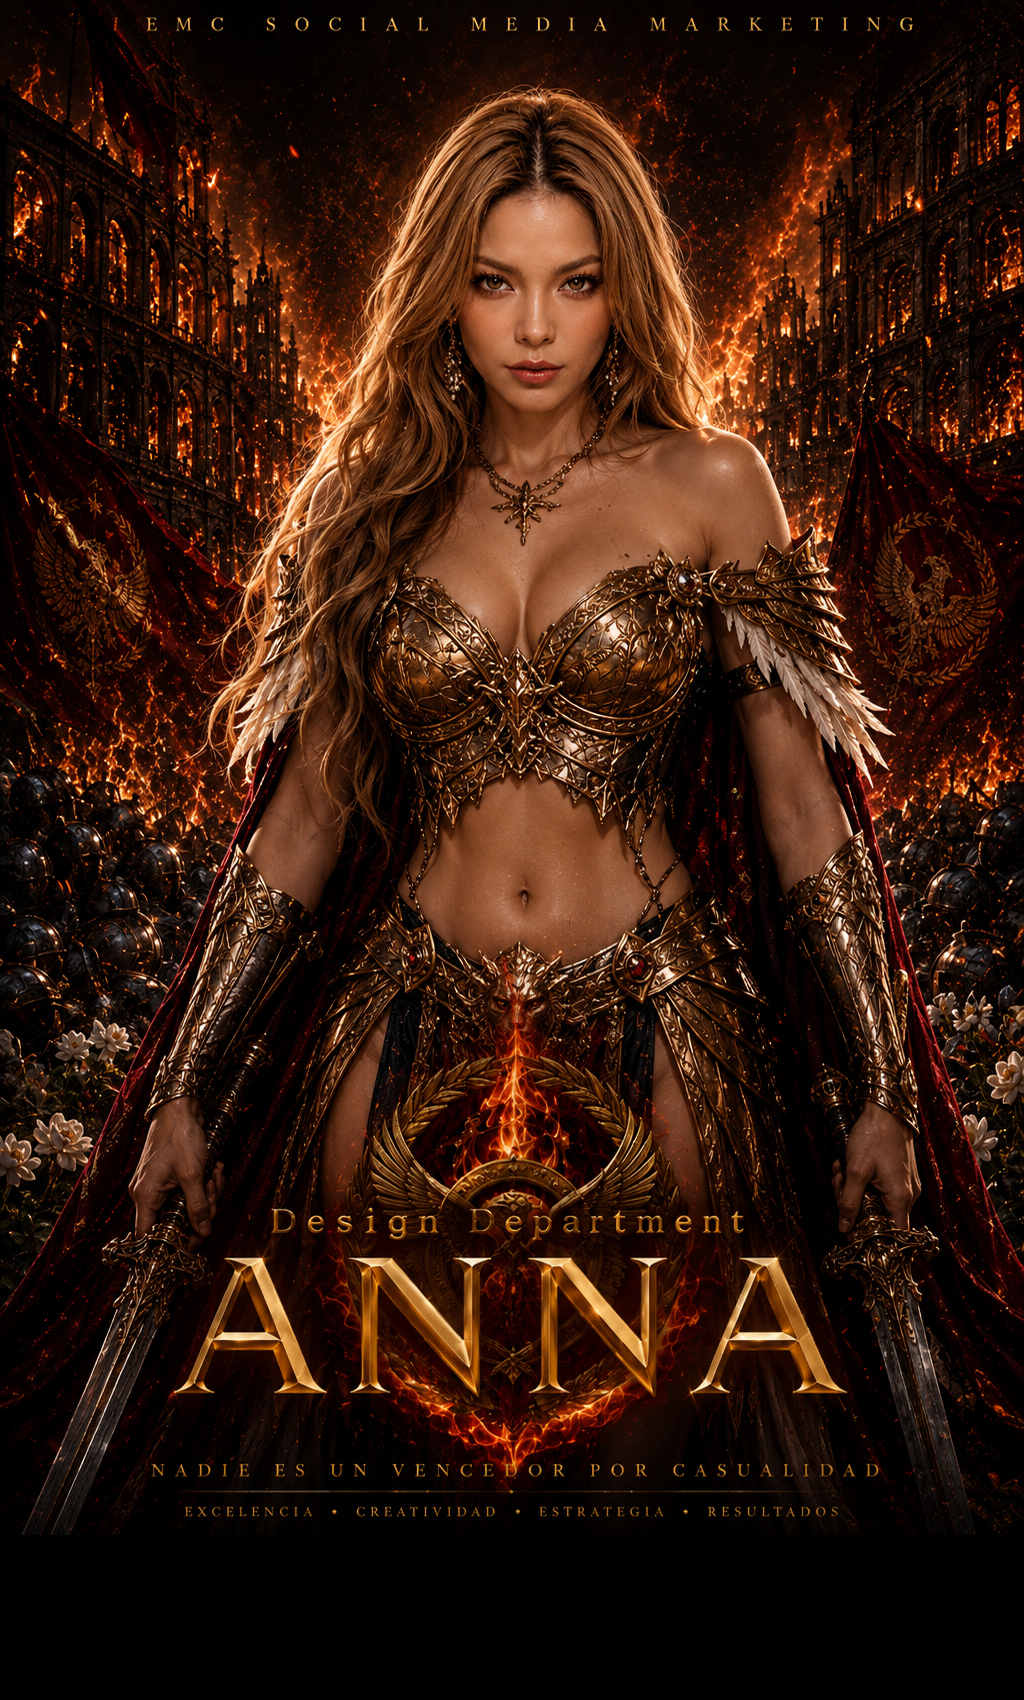
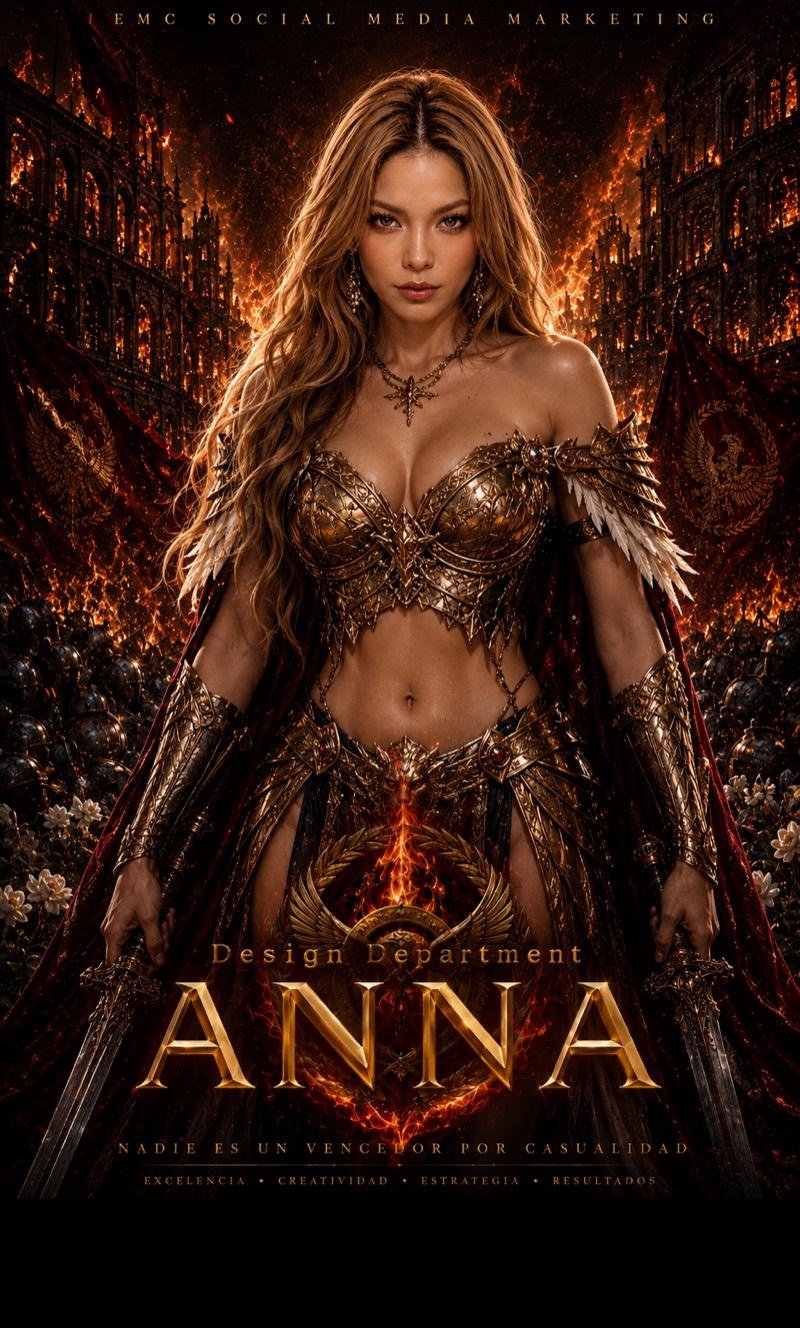
perf: 開頁只下載一次資料庫、壓縮設計師照片、減少不必要的資料庫提交
- fetchGithubJsonDatabase 共用進行中的下載，開頁三次請求合併為一次
- 六張設計師照片縮為寬 800、品質 72（每張約 1.7MB → 0.3MB）
- 畫面偏好停止操作 15 秒才同步，內容沒變不送，頁面隱藏時補送
- Worker saveUserSettings 設定沒變時不提交 GitHub
- 歷史資料庫與短網址索引只在內容真的變動時才重寫，不再每次寫入都多一次 align 提交

diff --git a/index.html b/index.html
@@ -7455,9 +7455,19 @@ const supplementLinkFields = Object.freeze({briefUrl:{slot:'a',column:'A'},asset
 const githubJsonDatabaseUrl = 'backend/data/db.json';
 let githubJsonDatabaseCache = null;
 let githubJsonDatabaseLoadedAt = 0;
+let githubJsonDatabaseInflight=null;
+/** 開頁時選單資料、設計師設定、案件列表幾乎同時要資料庫，以前各自下載，同一份檔案一次抓三遍。
+ * 現在同一時間只下載一次：正在下載中的那一次直接共用。反正都要重新下載，這次下載一律跳過快取抓最新版，
+ * 所以共用它的呼叫端不論有沒有要求強制更新，拿到的都是最新資料。 */
 async function fetchGithubJsonDatabase({fresh=false}={}){
   if(!fresh&&githubJsonDatabaseCache&&Date.now()-githubJsonDatabaseLoadedAt<10000)return githubJsonDatabaseCache;
-  const response=await fetch(`${githubJsonDatabaseUrl}?v=${fresh?Date.now():appBuildVersion}`,{cache:fresh?'no-store':'default'});
+  if(githubJsonDatabaseInflight)return githubJsonDatabaseInflight;
+  const download=downloadGithubJsonDatabase();
+  githubJsonDatabaseInflight=download;
+  try{return await download}finally{if(githubJsonDatabaseInflight===download)githubJsonDatabaseInflight=null}
+}
+async function downloadGithubJsonDatabase(){
+  const response=await fetch(`${githubJsonDatabaseUrl}?v=${Date.now()}`,{cache:'no-store'});
   if(!response.ok)throw new Error(`GitHub JSON 讀取失敗：HTTP ${response.status}`);
   const database=await response.json();
   if(!database?.tables?.database?.rows)throw new Error('GitHub JSON 資料庫格式錯誤');
@@ -7982,6 +7992,12 @@ let lastReturnRefreshAt = 0;
 let remoteSettingsSaveTimer = null;
 let remoteSettingsSaveSequence = 0;
 let remoteSettingsSaveQueue = Promise.resolve();
+// 畫面偏好（篩選條件、深淺色、欄位顯示、收合狀態）每改一次就寫回資料庫，會變成一次 GitHub 提交＋網站重新
+// 部署——例如連點四位設計師卡片就是四次提交。改成停止操作一段時間才合併送出一次，內容跟上次成功送出的
+// 一樣就不送；切走或關閉頁面時立刻補送，不會漏存。這些設定本機本來就有即時快取，畫面不受延遲影響。
+const REMOTE_SETTINGS_IDLE_MS = 15000;
+const remoteSettingsLastSynced = new Map();
+let remoteSettingsPendingRun = null;
 let lastEditorSessionKeepAliveAt = 0;
 let lastBackgroundRefreshInputAt = 0;
 const recentLocalWritesKey = 'designRequestRecentJsonWritesV1';
@@ -8074,19 +8090,28 @@ function remoteSettingsPayload(){const theme=currentTheme(); return {visibleColu
 function saveRemoteSettingsForAccount(message='個人設定已儲存'){
   if(!isLoggedIn()||!currentEditorToken||!apiUrl||isLocalPreviewToken())return;
   const account=currentEditorAccount, editor=currentEditor, token=currentEditorToken, settings=remoteSettingsPayload(), sequence=++remoteSettingsSaveSequence;
-  clearTimeout(remoteSettingsSaveTimer);
-  remoteSettingsSaveTimer=setTimeout(()=>{
+  const run=()=>{
+    if(remoteSettingsPendingRun===run)remoteSettingsPendingRun=null;
+    const serialized=JSON.stringify(settings);
+    if(remoteSettingsLastSynced.get(account)===serialized)return;
     remoteSettingsSaveQueue=remoteSettingsSaveQueue.catch(()=>{}).then(async()=>{
       try{
         const data=await sheetApi('saveUserSettings',{account,editorToken:token,settings});
         if(data.action!=='saveUserSettings')throw new Error('Cloudflare Worker 尚未回傳個人設定寫入結果');
+        remoteSettingsLastSynced.set(account,serialized);
         if(sequence===remoteSettingsSaveSequence&&account===currentEditorAccount)setSync(`${editor} 的${message}`);
       }catch(err){
         if(sequence===remoteSettingsSaveSequence&&account===currentEditorAccount)setSync(`設定已套用，但寫回表單失敗：${err.message}`,true);
       }
     });
-  },450);
+  };
+  clearTimeout(remoteSettingsSaveTimer);
+  remoteSettingsPendingRun=run;
+  remoteSettingsSaveTimer=setTimeout(run,REMOTE_SETTINGS_IDLE_MS);
 }
+function flushRemoteSettingsSave(){const run=remoteSettingsPendingRun; if(!run)return; clearTimeout(remoteSettingsSaveTimer); run()}
+document.addEventListener('visibilitychange',()=>{if(document.visibilityState==='hidden')flushRemoteSettingsSave()});
+window.addEventListener('pagehide',flushRemoteSettingsSave);
 function saveVisibleColumnsForAccount(message='個人設定已儲存'){visibleColumns=validVisibleColumns(visibleColumns,{fallback:false}); writeCache(accountStorageKey(visibleColumnsKey),visibleColumns); saveRemoteSettingsForAccount(message)}
 function saveDisplaySettingsForAccount(){writeCache(accountStorageKey(displaySettingsKey),displaySettings); saveRemoteSettingsForAccount()}
 function saveCollapseSettingsForAccount(){writeCache(accountStorageKey('designRequestCollapseSettingsV1'),collapseSettings); saveRemoteSettingsForAccount('視窗設定已儲存')}

diff --git a/worker/test/index.test.ts b/worker/test/index.test.ts
@@ -2432,6 +2432,33 @@ describe('Machi Design API Worker', () => {
     expect(managerDelete).toMatchObject({ ok: true, id: '26080001' });
   });
 
+  it('does not commit to GitHub when saveUserSettings would leave the settings row exactly as it was', async () => {
+    const token = await login();
+    let commits = 0;
+    vi.spyOn(globalThis, 'fetch').mockImplementation(async (input, init) => {
+      if (String(input) === 'https://api.github.com/repos/EMCtaipeiART/EMCtaipeiART.github.io/contents/backend/data/db.json') {
+        expect(init?.method).toBe('PUT');
+        commits += 1;
+        return Response.json({ content: { sha: `settings-file-${crypto.randomUUID()}` }, commit: { sha: 'settings-commit-sha' } });
+      }
+      throw new Error(`unexpected fetch: ${String(input)}`);
+    });
+
+    // 第一次是真的改了深淺模式，要提交。
+    const first = await api({ action: 'saveUserSettings', settings: { theme: 'dark', '深淺模式': '深色' } }, token);
+    expect(first).toMatchObject({ ok: true, action: 'saveUserSettings' });
+    expect(commits).toBe(1);
+
+    // 第二次送出一模一樣的設定：畫面照常拿到成功結果，但不可以再提交一次（每次提交都會觸發網站重新部署）。
+    const second = await api({ action: 'saveUserSettings', settings: { theme: 'dark', '深淺模式': '深色' } }, token);
+    expect(second).toMatchObject({ ok: true, action: 'saveUserSettings', unchanged: true });
+    expect(commits).toBe(1);
+
+    // 再改回淺色又是真的變動，照常提交。
+    await api({ action: 'saveUserSettings', settings: { theme: 'light', '深淺模式': '淺色' } }, token);
+    expect(commits).toBe(2);
+  });
+
   describe('new 客戶別 defaults', () => {
     /** 在「設定」表補一位人員，讓 newCustomerDefaults() 讀得到他的部門／組別。 */
     async function seedStaff(account: string, department: string, group: string, name = account): Promise<void> {

diff --git a/worker/src/database-coordinator.ts b/worker/src/database-coordinator.ts
@@ -2572,8 +2572,13 @@ export class DatabaseCoordinator extends DurableObject<Env> {
       return this.mutate(action, current, draft => {
         const row = settingsRow(draft, account || current.user);
         if (!row) throw new Error('找不到個人設定資料');
+        const before = JSON.stringify(row);
         updateSettingsRow(row, asRow(payload.settings));
-        return { result: { ok: true, action, account, settings: settingsResponse(row) }, changedTables: ['設定'] };
+        const result = { ok: true, action, account, settings: settingsResponse(row) };
+        // 設定內容完全沒變（例如重新整理時送出一樣的篩選條件）就不提交到 GitHub——每一次提交都會觸發網站
+        // 重新部署與歷史資料庫對齊流程，沒有實際變動的提交只會拖慢大家讀取前台。
+        if (JSON.stringify(row) === before) return { result, changed: false };
+        return { result, changedTables: ['設定'] };
       });
     }
     if (action === 'saveDesignerProfiles') {

diff --git a/AGENT.md b/AGENT.md
@@ -192,7 +192,31 @@ Google 試算表本身（`1cHxWBed715H0XufNhMOOk3hcZPTSpq5rA64-b5m8vWY`）現在
 
 ## 11. 修改紀錄
 
-### 2026-09-15 13:40 Asia/Taipei（最新）— 有新的修改需求時，案件狀態自動改為「修改中」
+### 2026-09-15 14:50 Asia/Taipei（最新）— 前台讀取加速：合併重複的資料庫下載、壓縮設計師照片、減少不必要的資料庫提交
+
+- 修改目的：使用者反映前台讀取變慢，診斷後指定「合併重複的資料庫請求、壓縮那張大圖，並減少不必要的資料庫提交」。
+- 影響檔案：`index.html`、`worker/src/database-coordinator.ts`、`scripts/generate_database_archive_snapshot.mjs`、`scripts/generate_short_link_index.mjs`、`images/Anna.jpg`、`images/Leona.jpg`、`images/Amber.jpg`、`images/Noise.jpg`、`images/Machi.jpg`、`images/Karl.jpg`、`worker/test/index.test.ts`、`backend/test/backend.test.mjs`。
+- 影響功能：
+  1. **合併資料庫下載**：開頁時選單資料、設計師設定、案件列表三個地方幾乎同時呼叫 `fetchGithubJsonDatabase`，以前同一份 db.json 下載三次。新增 `githubJsonDatabaseInflight`，正在下載時其他呼叫直接共用；實際下載拆到 `downloadGithubJsonDatabase()`，一律跳過快取抓最新版，所以共用的呼叫端即使要求強制更新也拿到最新資料。10 秒內的一般讀取仍沿用快取。
+  2. **壓縮設計師照片**：六張 1023x1700、約 1.6–1.8MB 的照片，以 `sips` 縮成寬 800、JPEG 品質 72，每張約 0.30–0.36MB（合計約 10MB → 2MB）。畫面上顯示寬度約 300px，800px 在高解析度螢幕仍清楚，已目視確認。
+  3. **畫面偏好同步減量**：篩選、深淺色、欄位顯示等偏好以前改一次就寫一次資料庫（一次 GitHub 提交＋網站重新部署；9/14 有 29 筆）。`saveRemoteSettingsForAccount` 改成停止操作 15 秒（`REMOTE_SETTINGS_IDLE_MS`）才合併送出一次；內容與上次成功送出的相同就不送；切走分頁或關閉頁面（`visibilitychange` hidden、`pagehide`）時立刻補送。本機快取仍即時生效，畫面不受延遲影響。
+  4. **Worker 不提交沒變的設定**：`saveUserSettings` 比對設定列寫入前後，完全一樣時回傳 `changed:false`，`mutate()` 不提交 GitHub，回應帶 `unchanged:true`。
+  5. **歷史資料庫對齊流程不再每次都提交**：9/14 有 107 筆「align history database」提交，原因是兩支產生程式把每次都會變的版本號與時間寫進檔案。`generate_database_archive_snapshot.mjs` 的 `sourceChanged` 只比對案件資料雜湊（`rowsSha256`），不再比對主資料庫版本號；`generate_short_link_index.mjs` 在短網址與補充連結內容都沒變時保留原檔不寫。
+- 風險區塊：
+  - 偏好改完 15 秒內若瀏覽器直接當掉（不是正常關閉），那次變更只存在本機快取，下次操作時才會送出；正常關分頁、切走都會補送。
+  - 短網址索引裡的 `databaseRevision`／`generatedAt` 只在內容有變時更新，不再代表最新主資料庫版本；前台沒有讀這兩欄。
+  - 歷史資料庫快照裡的 `linkedDatabaseRevision` 同理，只在案件資料變動時更新。
+- 已檢查／驗證方式：
+  - `cd worker && npx tsc --noEmit` 無錯；`npx vitest run` **73/73 全過**（72 既有＋1 新增：第一次改深色會提交、送一模一樣的設定不提交且回 `unchanged:true`、改回淺色再提交）。
+  - `node --test backend/test/*.test.mjs` **100/100 全過**（99 既有＋1 新增：抽出真正的 `fetchGithubJsonDatabase` 驗證三個同時呼叫只下載一次、完成後強制更新會重下、10 秒內沿用快取；抽出真正的偏好儲存函式驗證連點四次只送一次且是最後一次內容、相同內容不送、隱藏頁面立即補送；在暫存資料夾實際執行短網址產生程式，只改版本號時檔案不變、短網址真的改了才更新）。
+  - 用 `git stash` 只還原四個程式檔，確認兩支新測試在舊程式碼上失敗，`git stash pop` 後恢復。
+  - 在實際專案資料上執行兩支產生程式，再把 db.json 版本號加一重跑，兩支都回報 unchanged、`data/` 無差異，驗證後還原 db.json。
+  - 本機 http server 開前台，網路紀錄顯示開頁只下載一次 db.json。
+  - **未做的驗證**：沒有在正式站登入實測偏好同步（這個環境沒有正式站登入）。
+- 部署狀態：`index.html`、圖片、產生程式 git push 後自動生效；Worker 已 `npx wrangler deploy`。
+- commit：（見下方 push 紀錄）
+
+### 2026-09-15 13:40 Asia/Taipei— 有新的修改需求時，案件狀態自動改為「修改中」
 
 - 修改目的：使用者指定「現在有修改的新需求時，請將該專案狀態自動更改為『修改中』」。
 - 影響檔案：`worker/src/database-coordinator.ts`、`backend/app.mjs`、`index.html`、`scripts/nas_design_image_lib.mjs`、`scripts/nas_design_image_watcher.mjs`、`worker/test/index.test.ts`、`backend/test/backend.test.mjs`、`backend/test/nas-upload-idempotency.test.mjs`。
